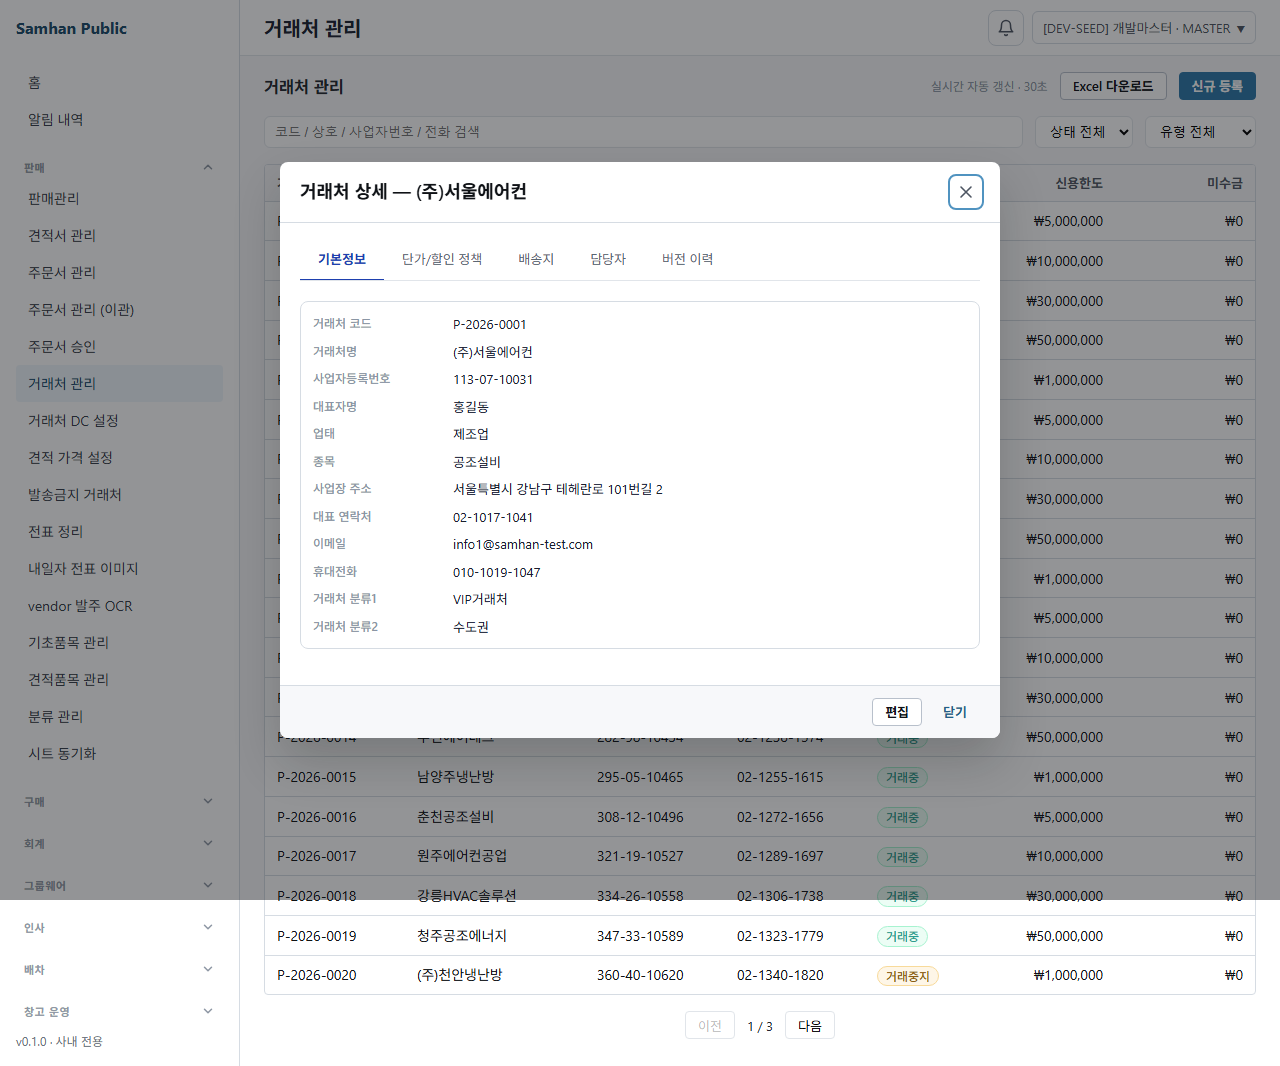
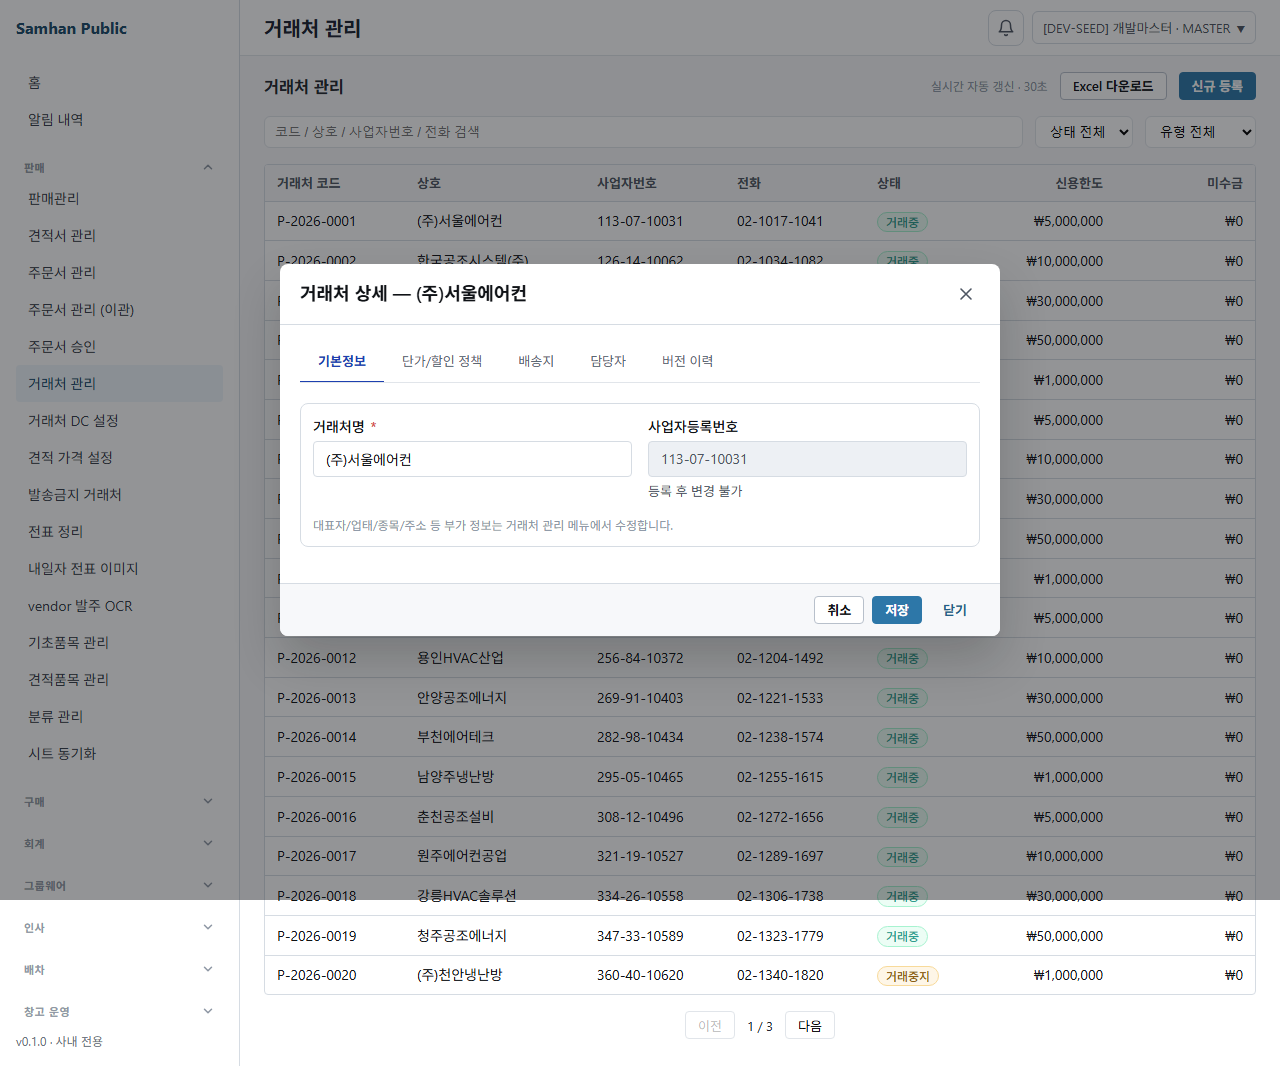
[QA] 모바일 슬4b — ⑤ Codex 지적 반영: 거래처 상세 편집 캡처 + 창고편집 부서게이트 정직화 (6/8)
⑤ Codex 라운드 MAJOR(QA 완전성·README 과대주장) 반영:
- partner-detail QA opener 수정: read-only 다이얼로그 → "편집" 클릭 → edit FormGrid(--fg-cols)
  렌더 대기. → 거래처 상세 편집 모달 mobile 1트랙/desktop 2트랙(319x319) 캡처 추가(PASS).
- 창고 편집: /admin/warehouses 인사 부서게이트(@RequireDepartment) "대표실 소속+MASTER" 라
  dev_master(MASTER이나 대표실 미소속) 403 → 슬4b 코드 무관, "캡처 불가+사유" 정직 문서화
  (가짜 금지). EditWarehouseModal 이관은 정적 5차원 리뷰 확인 + FormGrid 반응형은 동형 모달
  2종(거래처상세·공급자)으로 입증.
- README 정정: 4/8 "핵심 전부 입증"(과대) → 6/8(페이지폼+모달폼2종 양뷰포트 입증, 창고편집 게이트 명시).

코드(FormGrid+폼4 이관) 무변경 — ④/⑤ 코드 차원 0수렴 유지.

Claude-Session: https://claude.ai/code/session_01JmyP78edLs4gR3D16RStZ1

Changed region(s): [[0.2188, 0.1548, 0.7812, 0.712], [0.5312, 0.3096, 0.5625, 0.3405]]

diff --git a/docs/qa/mobile-s4b-form-grid/README.md b/docs/qa/mobile-s4b-form-grid/README.md
@@ -9,25 +9,26 @@
 
 - mobile(≤768px) 기대 = **1 트랙(1열)**, desktop(>768px) 기대 = **2 트랙(2열)**.
 
-## 결과 (4/8 PASS — 핵심 전부 입증)
+## 결과 (6/8 PASS — 페이지 폼 + 모달 폼 2종, 양 뷰포트 입증)
 
 | 폼 | 유형 | mobile 트랙(computed) | desktop 트랙(computed) | 판정 |
 |---|---|---|---|---|
 | 거래처 신규 등록 | 페이지 폼 | 1 (`324px`) | 2 (`375px 375px`) | ✅ PASS |
+| 거래처 상세 편집 | 모달 폼(편집모드) | 1 (`324px`) | 2 (`319px 319px`) | ✅ PASS |
 | 공급자 정보 수정 | 모달 폼 | 1 (`350px`) | 2 (`330px 330px`) | ✅ PASS |
-| 창고 편집 | 모달 폼 | — | — | ⚠ 미캡처(시드없음) |
-| 거래처 상세 편집 | 모달 폼 | — | — | ⚠ 미캡처(시드없음) |
+| 창고 편집 | 모달 폼 | — | — | ⚠ 미캡처(부서게이트 403, 슬4b 무관) |
 
-- **페이지 폼 + 모달 폼** 양쪽, **양 뷰포트** 에서 FormGrid 1열/2열 자동 전환 입증.
+- **페이지 폼 + 모달 폼(편집)** 양쪽, **양 뷰포트**에서 FormGrid 1열/2열 자동 전환 입증(거래처 등록·거래처 상세 편집·공급자 설정 **3폼**).
 - 전폭 필드(주소/이메일/메모)는 desktop 2열에서 `FormGrid.Full` 로 양열 span, mobile 1열 정상.
-- ⚠ 창고 편집·거래처 상세 = 로컬 DB 미시드로 `/admin/warehouses`·`/admin/partners` 목록 비어 진입 버튼/행 부재 → 미캡처. **FormGrid 결함 아님**(동일 컴포넌트, 모달 케이스는 공급자설정으로 입증, 정적 5차원 리뷰가 4폼 이관 정확성 확인).
+- ⚠ **창고 편집 = 미캡처(슬4b 코드 무관)**: `/admin/warehouses` 가 인사 부서 게이트(@RequireDepartment)로 **"대표실 부서 소속 + MASTER"** 만 허용 → dev_master(MASTER이나 대표실 미소속) **403** (실 스샷 `*-warehouse-edit.png` = 403 화면). EditWarehouseModal 의 FormGrid 이관은 정적 5차원 리뷰로 정확성 확인 + FormGrid 반응형은 동형 모달 2종(거래처 상세·공급자)으로 입증. 캡처하려면 대표실 부서 소속 계정 필요([[feedback_qa_docker_real_test]] "실연동 불가 시 캡처 불가+사유 정직 보고, 가짜 생성 금지").
 - MAJOR-3(공급자설정 `padding:'4px 0'` grid→외부div 이동) = 모달 시각 회귀 없음 확인(해소).
 
 ## 캡처 파일
 
-- `mobile-partner-create.png` / `desktop-partner-create.png` — 거래처 등록(1열/2열)
+- `mobile-partner-create.png` / `desktop-partner-create.png` — 거래처 등록 페이지(1열/2열)
+- `mobile-partner-detail.png` / `desktop-partner-detail.png` — 거래처 상세 편집 모달(1열/2열)
 - `mobile-supplier-profile.png` / `desktop-supplier-profile.png` — 공급자설정 모달(1열/2열)
-- (`*-warehouse-edit.png` / `*-partner-detail.png` — 시드없음 블랭크/목록)
+- `*-warehouse-edit.png` — 403 화면(부서게이트, 슬4b 무관)
 
 ## 재현
 
